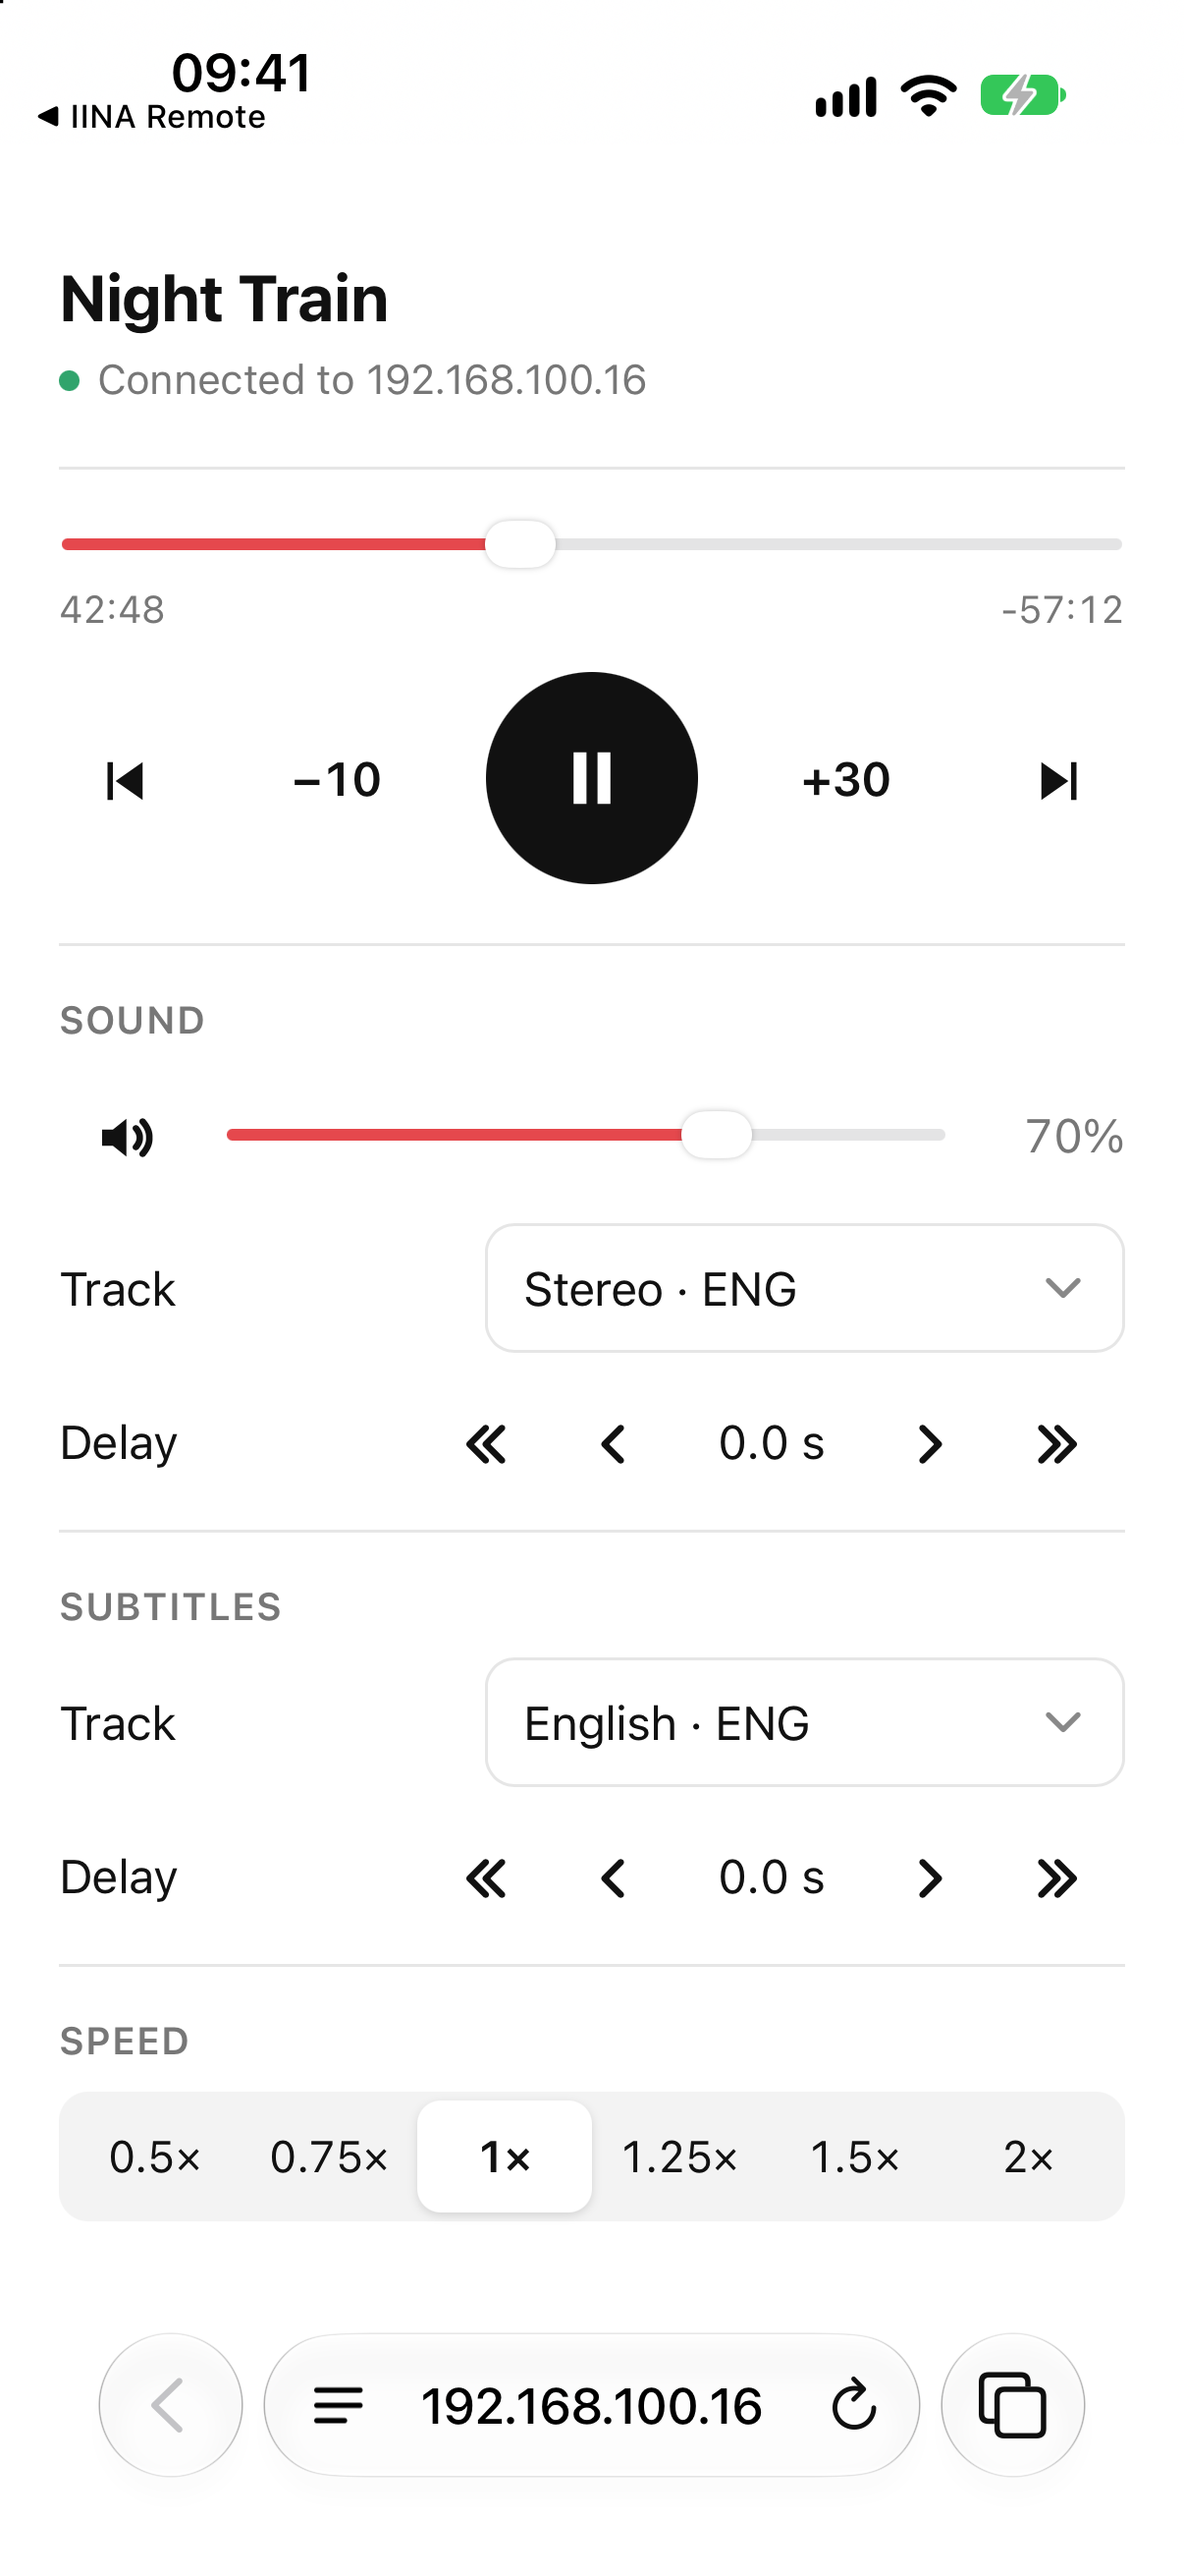
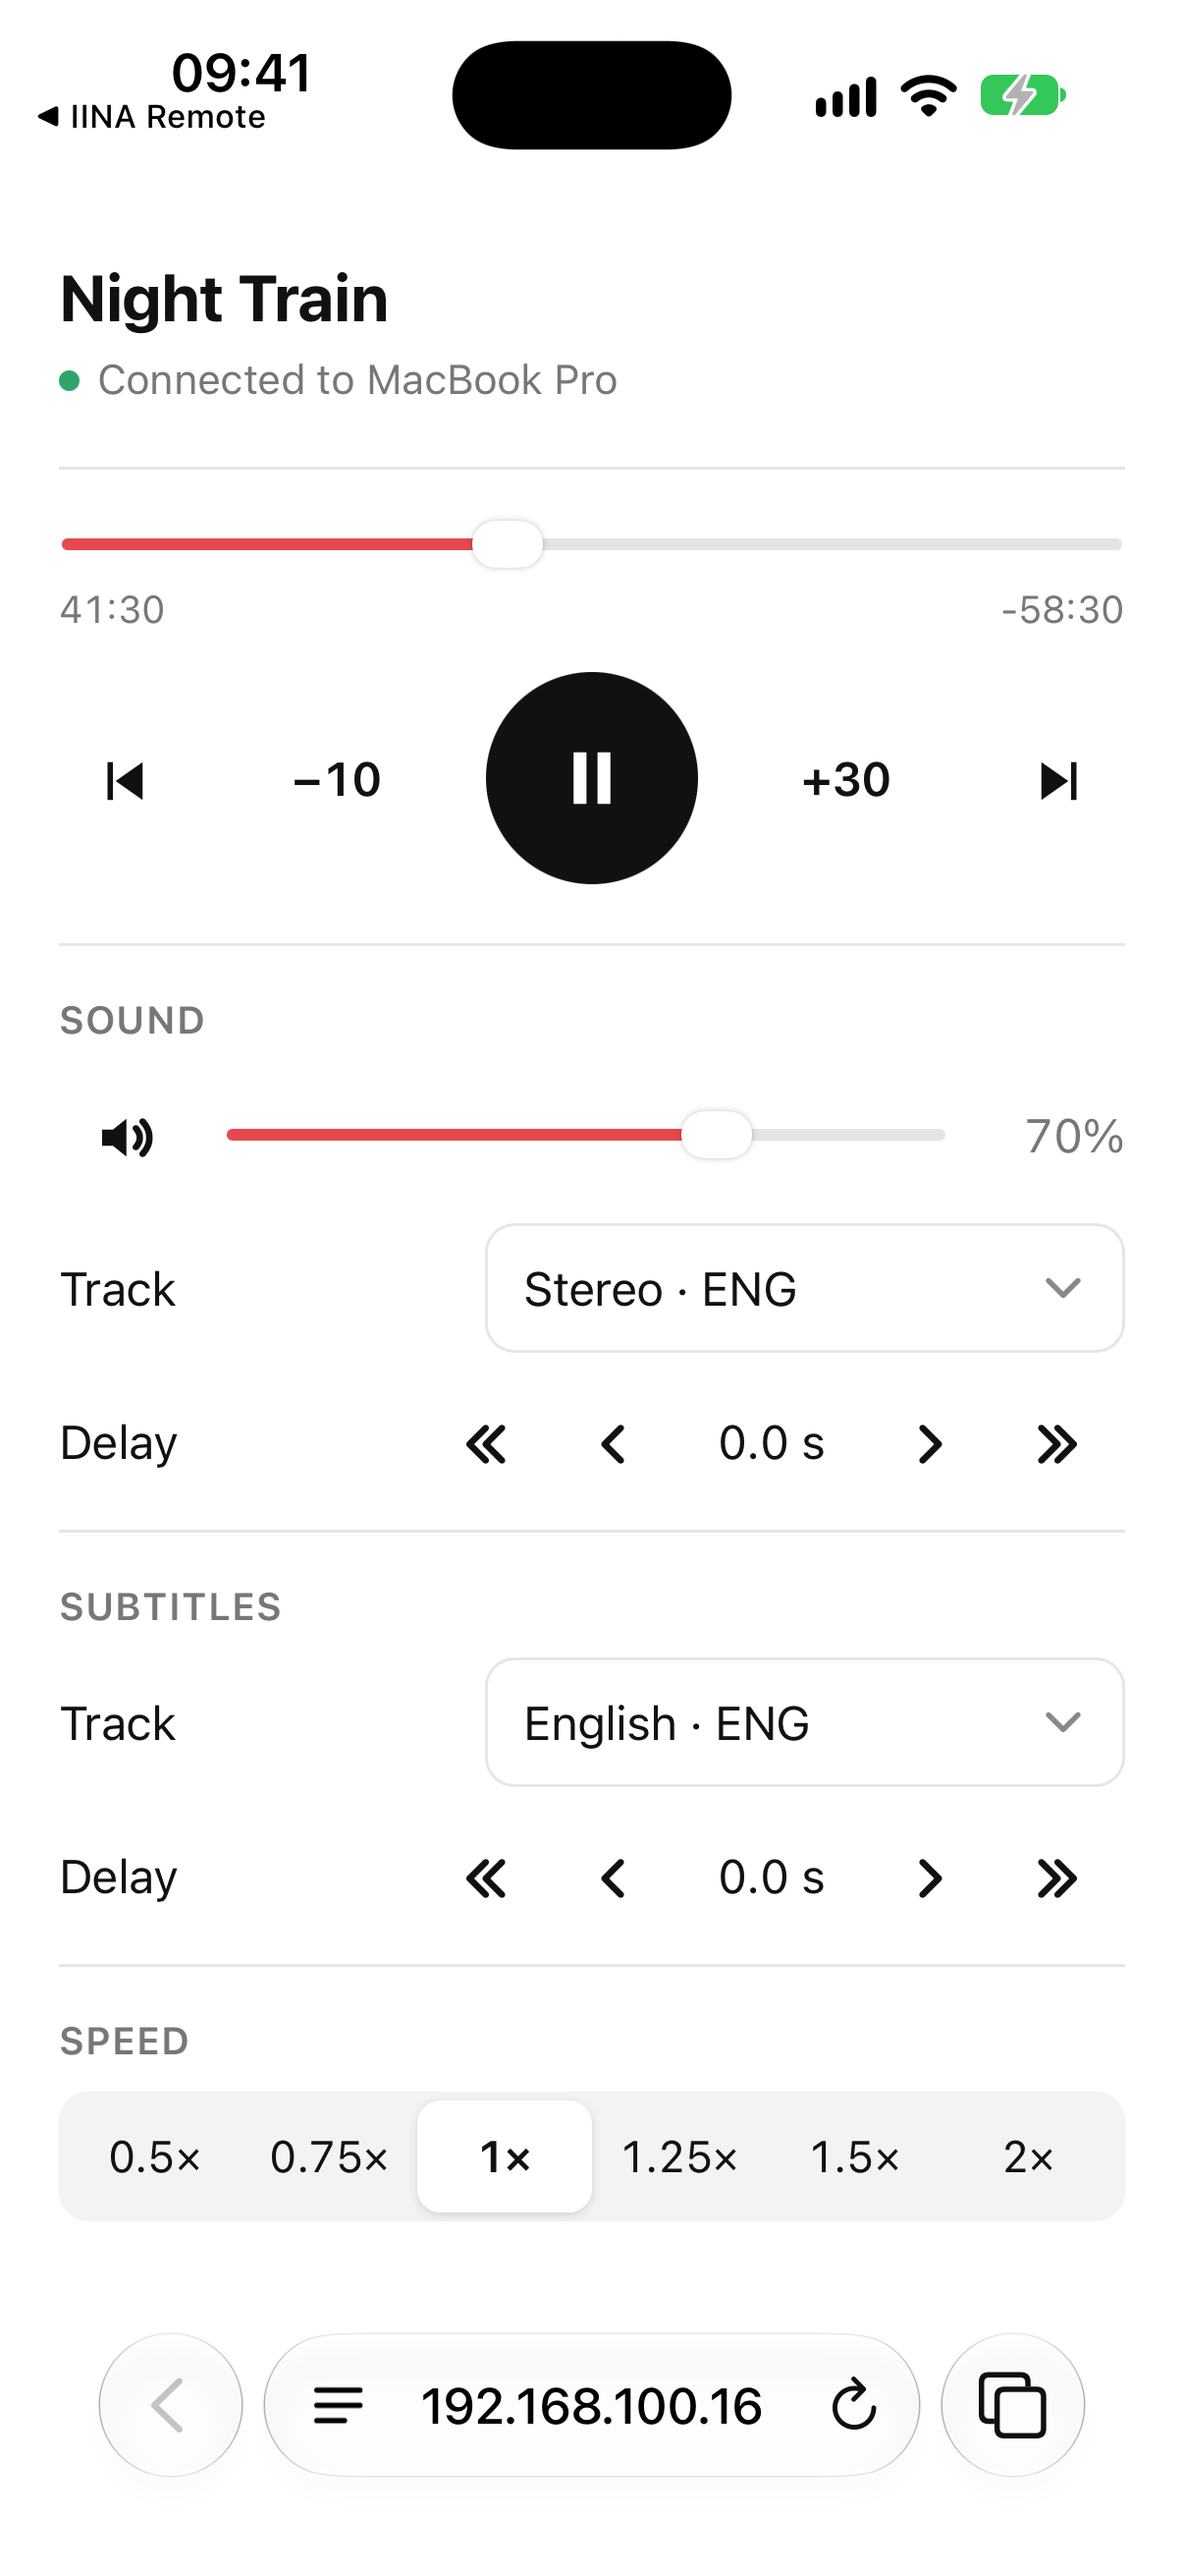
Show Mac name in browser remote

diff --git a/remote.html b/remote.html
@@ -104,7 +104,7 @@ let socket, s = null, dragging = null;
 function connect() {
   socket = new WebSocket(url);
   socket.binaryType = "arraybuffer";
-  socket.onopen = () => { document.body.classList.remove("offline"); $("status").textContent = `Connected to ${location.hostname}`; };
+  socket.onopen = () => document.body.classList.remove("offline");
   socket.onmessage = (e) => render(JSON.parse(new TextDecoder().decode(e.data)));
   socket.onclose = () => {
     document.body.classList.add("offline");
@@ -137,6 +137,7 @@ function fillTracks(select, tracks, current, offLabel) {
 function render(next) {
   s = next;
   $("title").textContent = s.title || "Nothing playing";
+  $("status").textContent = `Connected to ${s.host || location.hostname}`;
   $("playIcon").setAttribute("d", s.pause ? "M8 5l11 7-11 7z" : "M7 5h3.5v14H7zM13.5 5H17v14h-3.5z");
   const seek = $("seek");
   seek.max = Math.max(1, Math.floor(s.duration));

diff --git a/main.js b/main.js
@@ -12,9 +12,11 @@ const dir = [".iinaplugin-dev", ".iinaplugin"].map((ext) => base + ext).find((d)
 const conns = new Set();
 let port = WS_PORTS.first;
 let sent = "";
+let host = "";
 
 function state() {
   return {
+    host,
     title: mpv.getString("media-title") || "",
     pause: mpv.getFlag("pause"),
     time: mpv.getNumber("time-pos") || 0,
@@ -103,5 +105,6 @@ menu.addItem(menu.item("Show Remote QR Code", () => {
   loadSidebar();
   sidebar.show();
 }));
+utils.exec("/usr/sbin/scutil", ["--get", "ComputerName"]).then((r) => (host = r.stdout.trim()));
 listen(WS_PORTS.first);
 setInterval(broadcast, 500);
